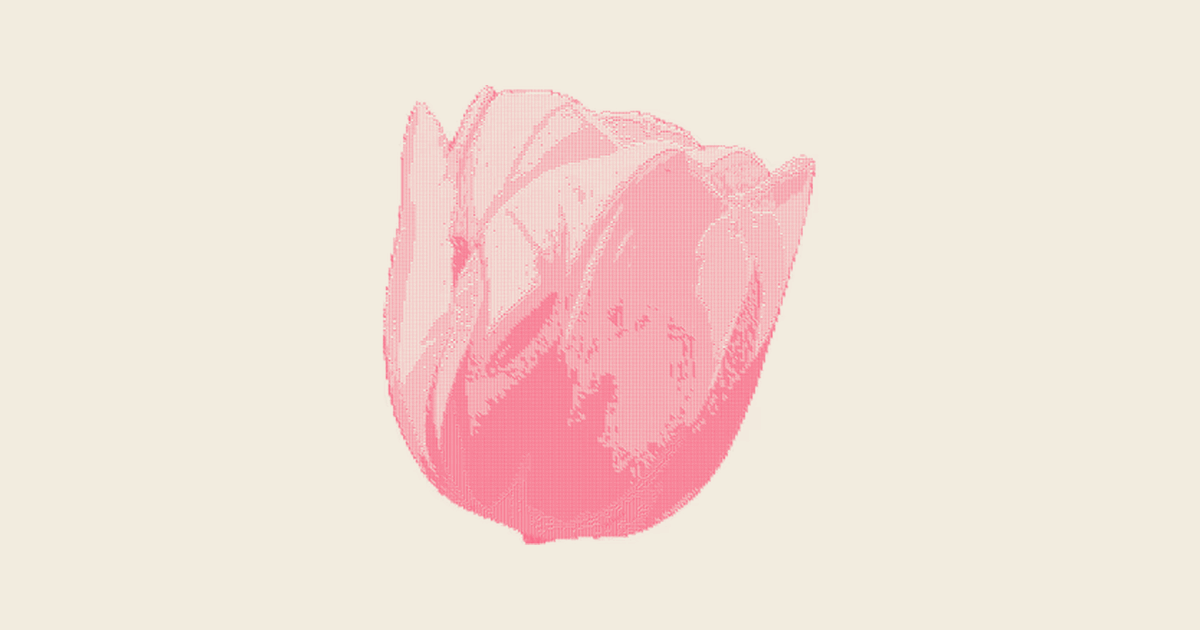
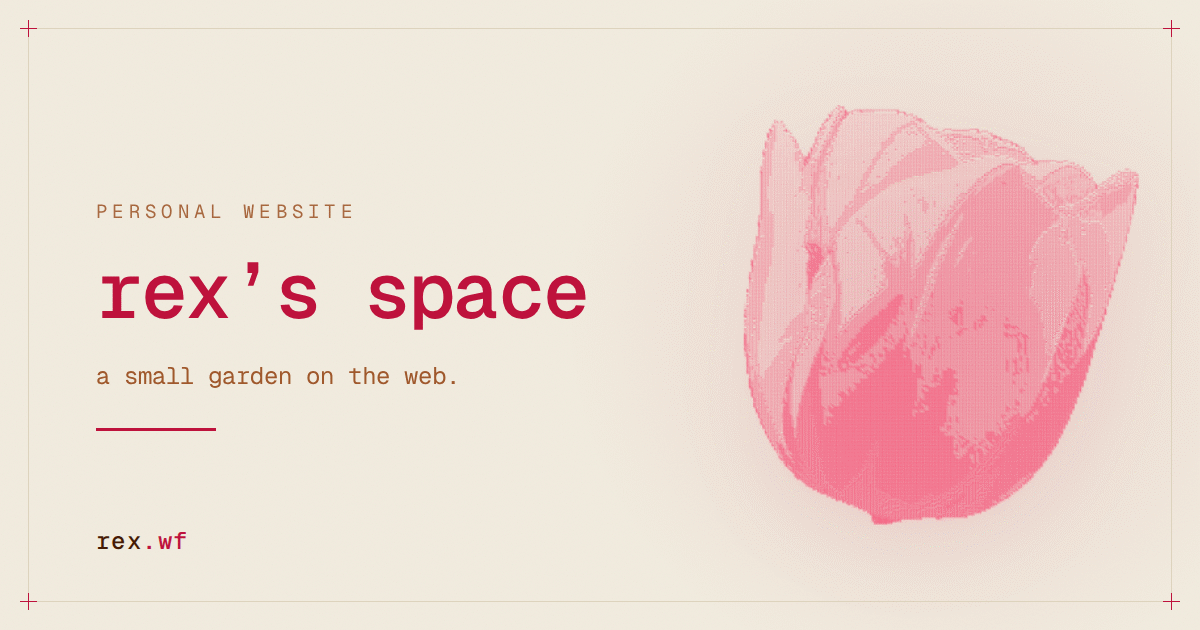
feat: redesign social cards, pick og image by hostname

diff --git a/src/routes/__root.tsx b/src/routes/__root.tsx
@@ -18,9 +18,12 @@ export const Route = createRootRoute({
     const hostname = loaderData?.hostname ?? "rex.wf";
     const name = hostname === "mridul.sh" ? "mridul" : "rex";
     const title = `${name}'s space`;
-    const description = `${name}'s personal corner of the web: projects, writing, links, and whatever is playing.`;
+    const description = `${name}'s personal website.`;
     const canonicalUrl = new URL("/", baseUrl).href;
-    const imageUrl = new URL("/social-card.png", baseUrl).href;
+    const imageUrl = new URL(
+      name === "mridul" ? "/social-card-mridul.png" : "/social-card.png",
+      baseUrl
+    ).href;
 
     return {
       meta: [
@@ -42,12 +45,12 @@ export const Route = createRootRoute({
         { property: "og:image:type", content: "image/png" },
         { property: "og:image:width", content: "1200" },
         { property: "og:image:height", content: "630" },
-        { property: "og:image:alt", content: "An ASCII rose" },
+        { property: "og:image:alt", content: title },
         { name: "twitter:card", content: "summary_large_image" },
         { name: "twitter:title", content: title },
         { name: "twitter:description", content: description },
         { name: "twitter:image", content: imageUrl },
-        { name: "twitter:image:alt", content: "An ASCII rose" },
+        { name: "twitter:image:alt", content: title },
       ],
       links: [
         { rel: "stylesheet", href: appCss },
